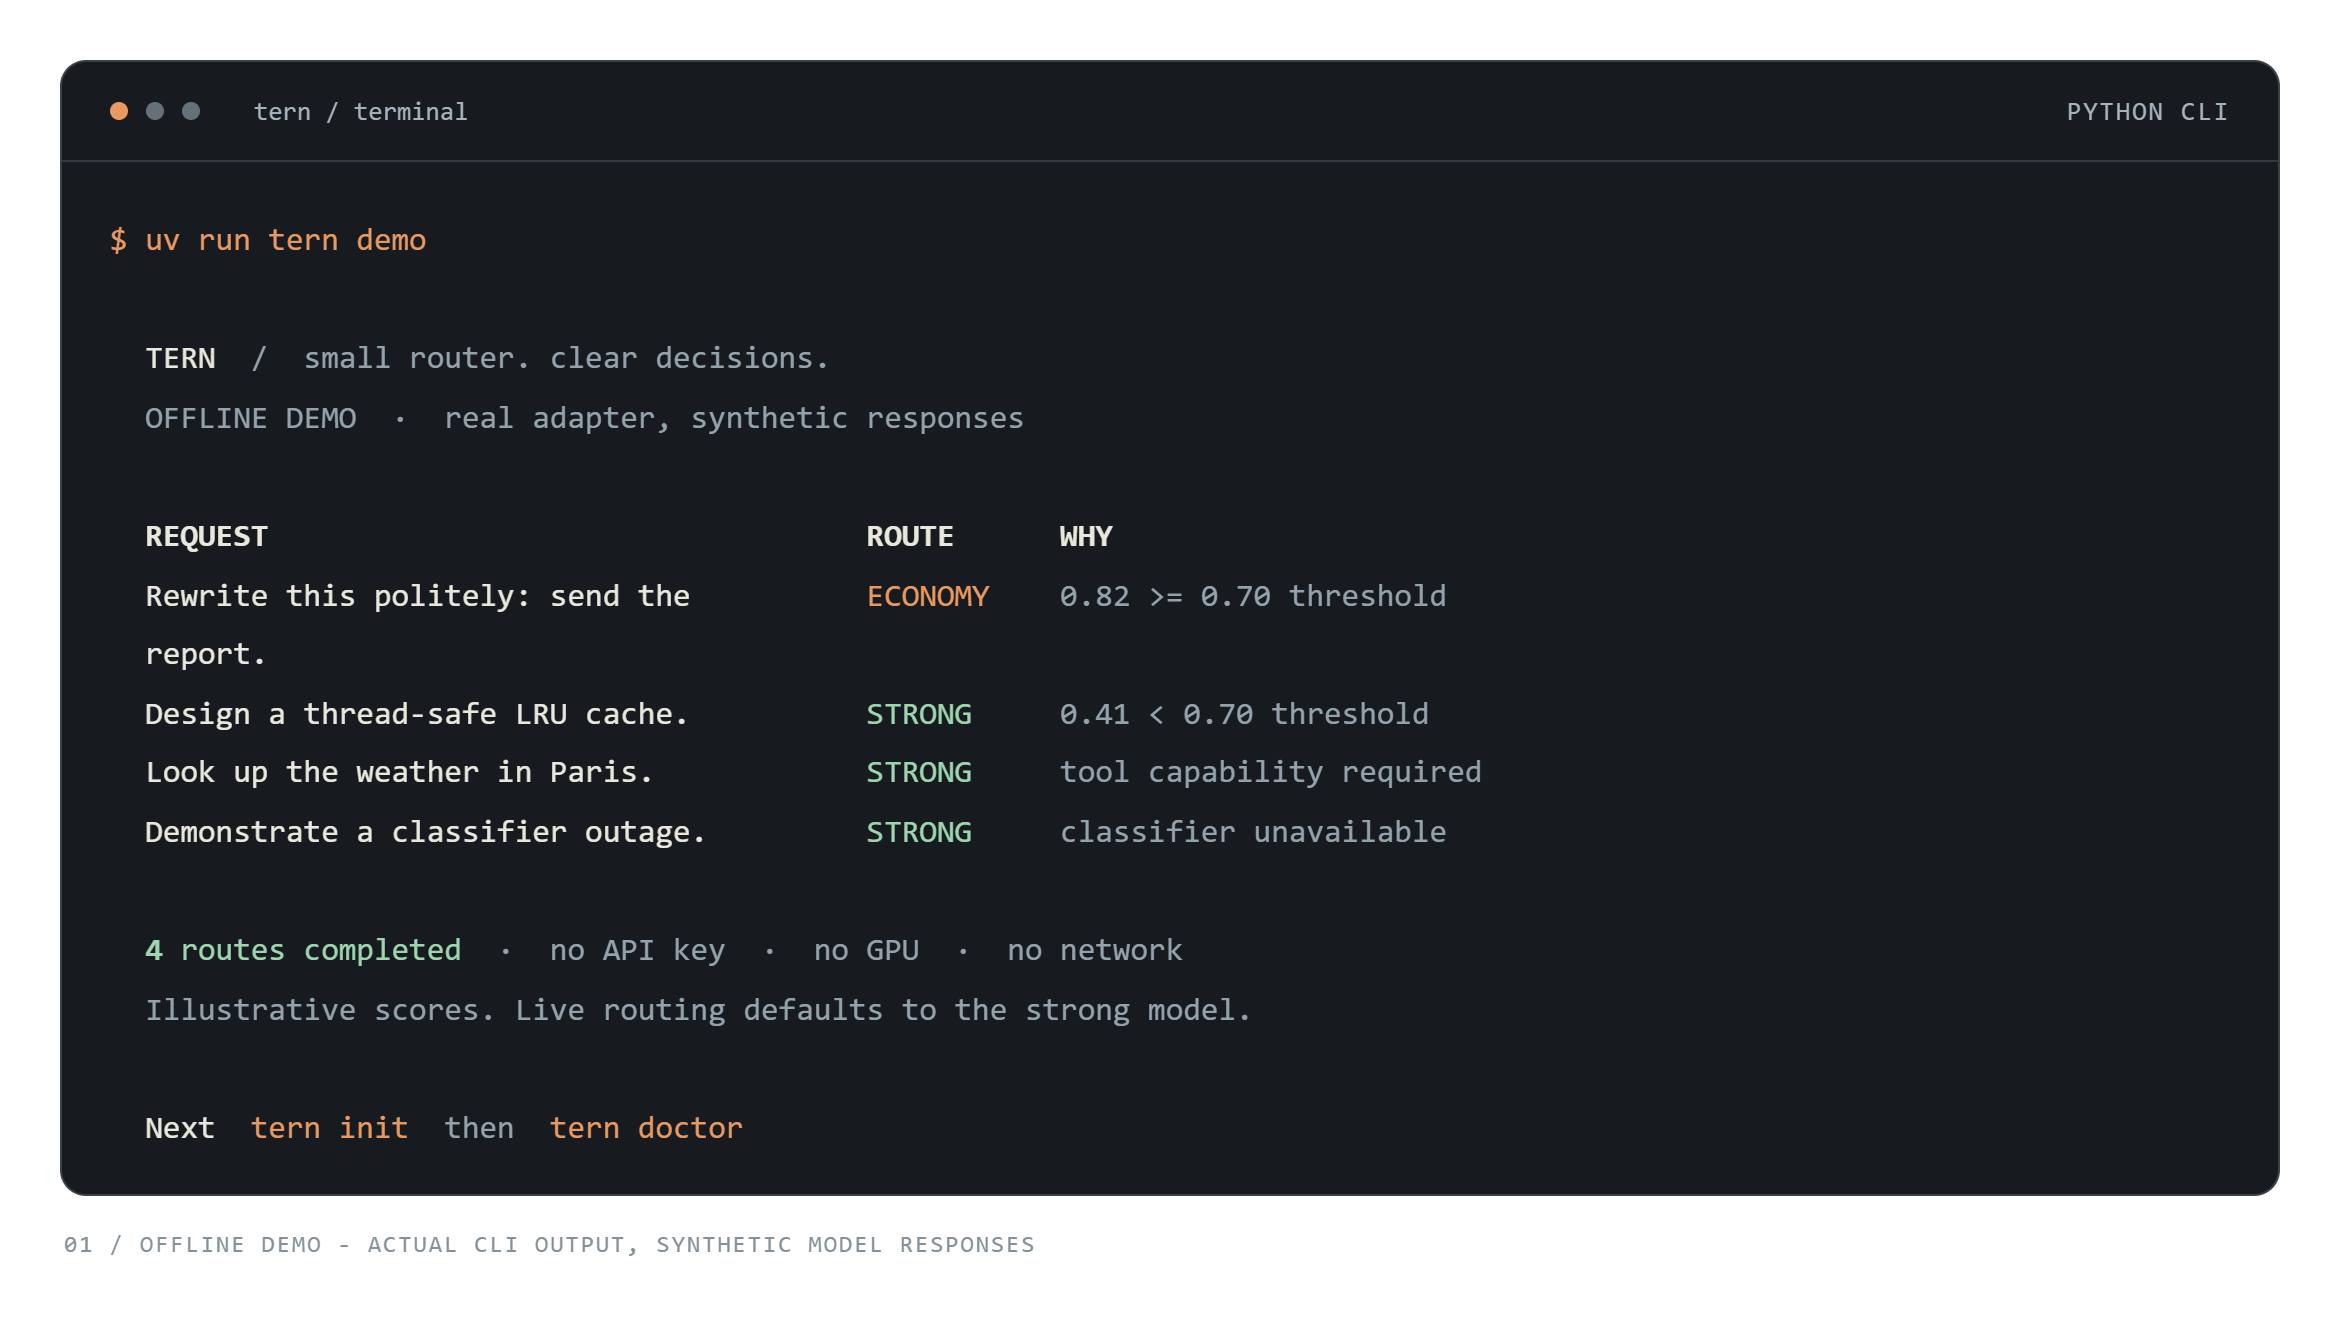
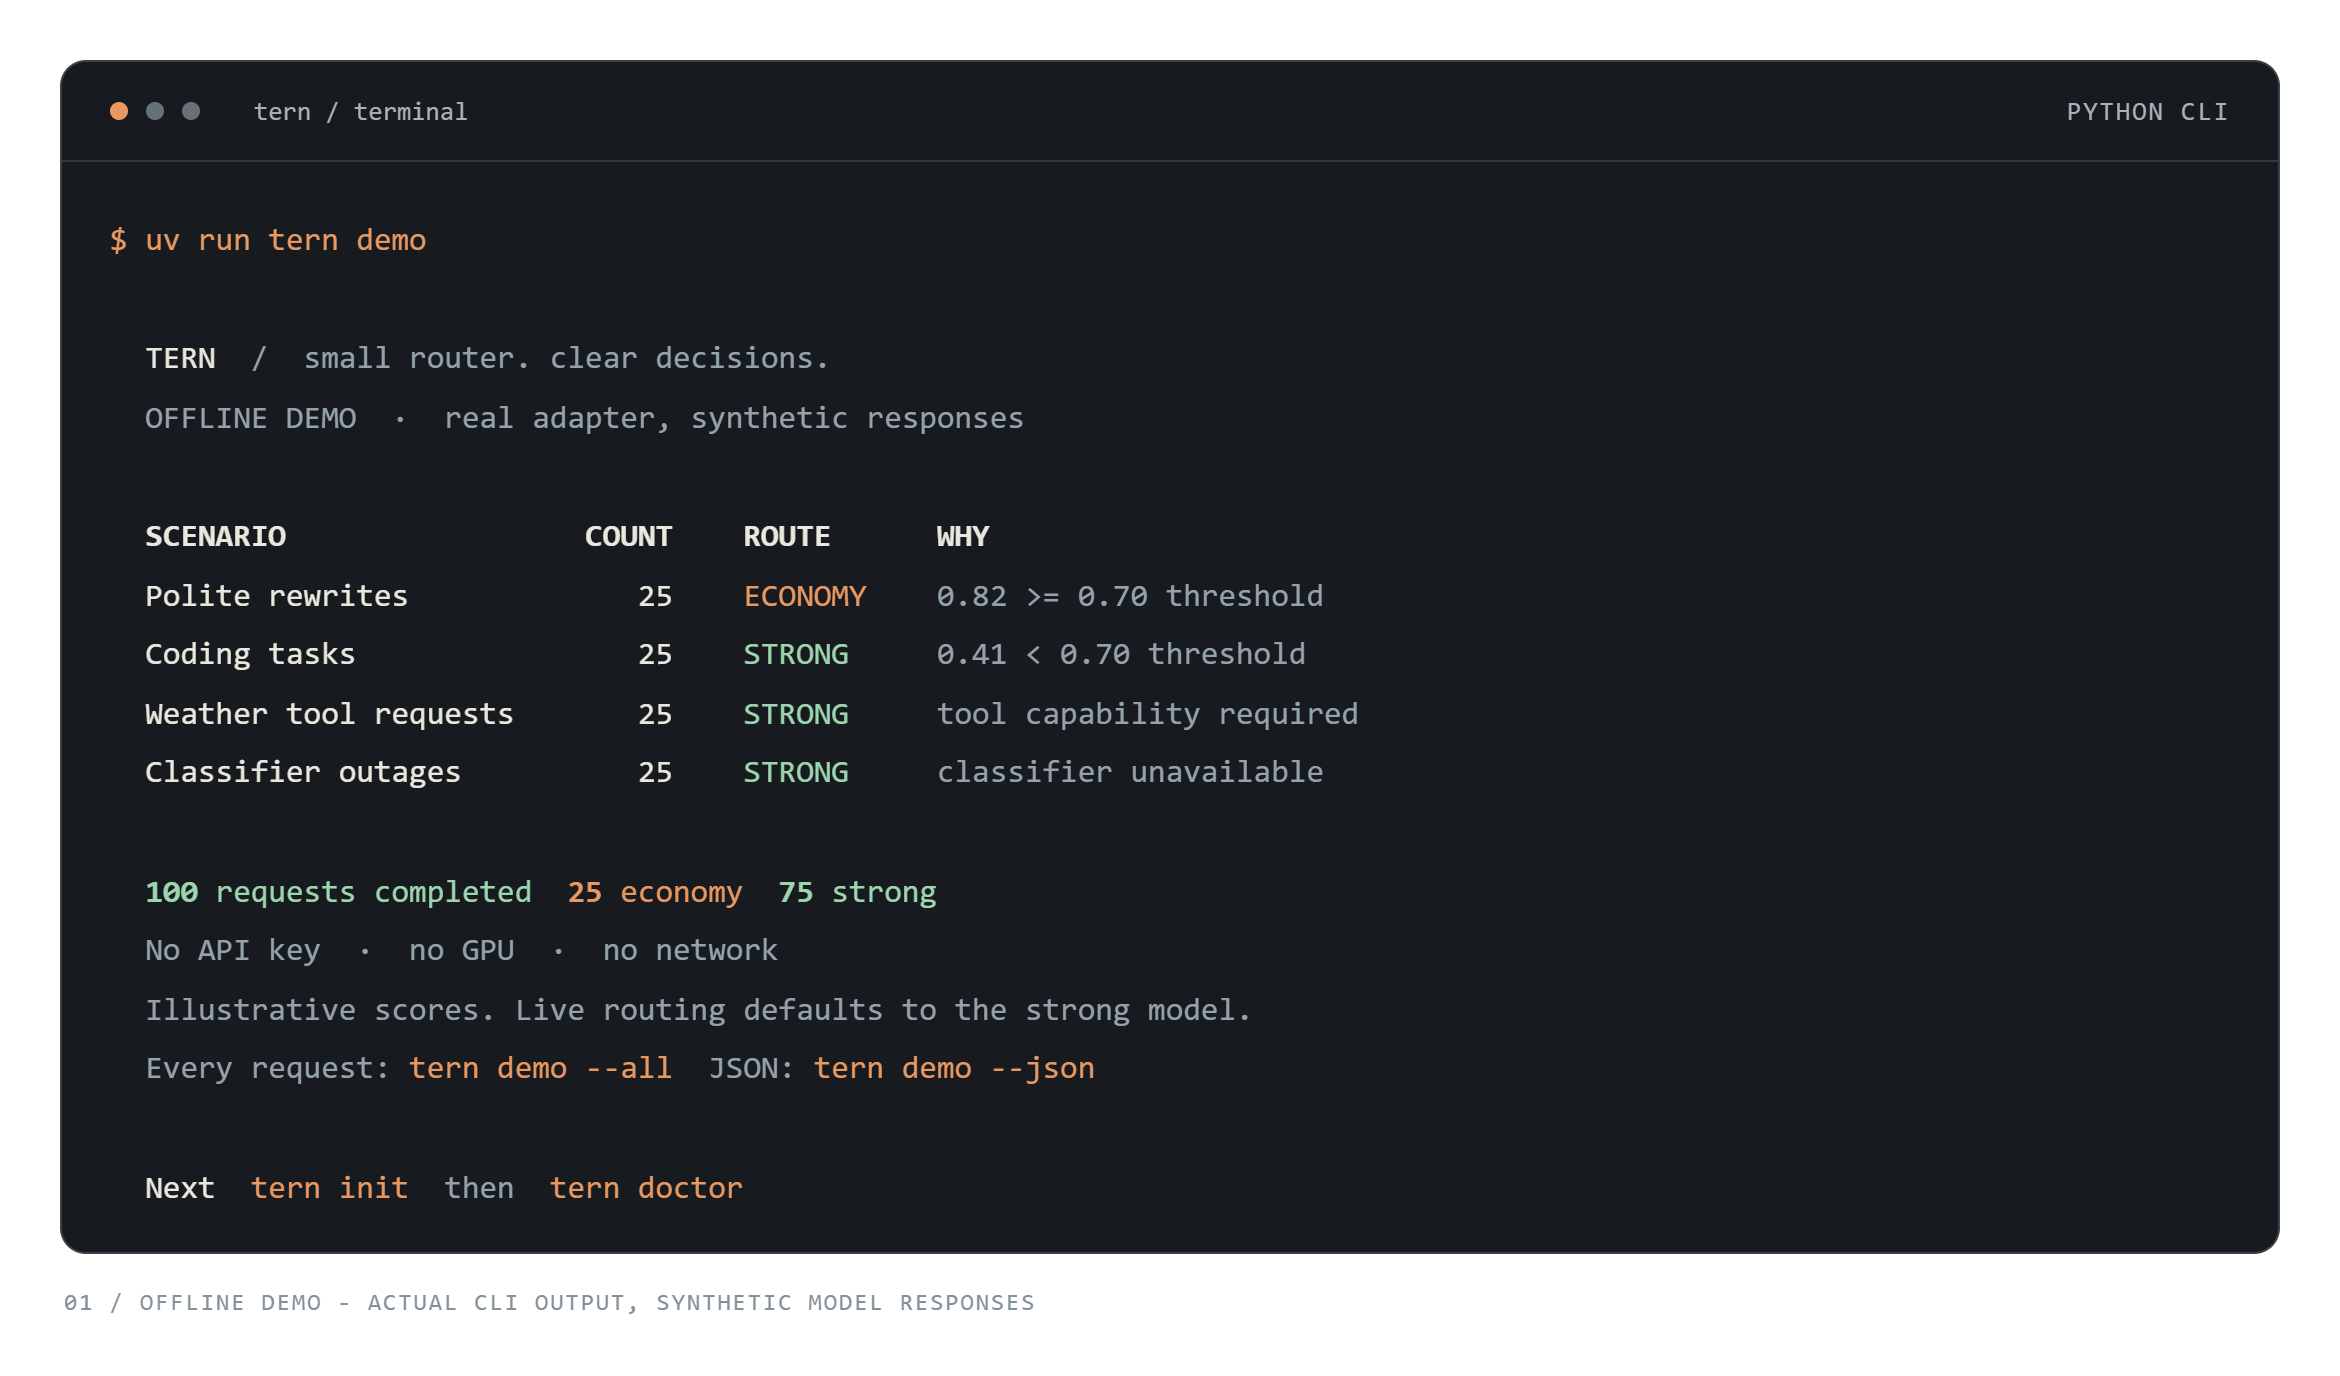
Document and capture the 100-request demo

diff --git a/docs/quickstart.md b/docs/quickstart.md
@@ -17,7 +17,15 @@ These commands work in PowerShell, bash and zsh. The repository is private, so y
 
 Upgrading from Model Router? Run `uv sync --extra cli` to install the new `tern` command. The `model-router` command remains an alias, and existing `model_router` Python imports continue to work.
 
-The demo exercises the actual adapter using in-process HTTP transports. Its four synthetic cases demonstrate economy selection, strong selection, tool bypass and classifier failure fallback. They are not live inferences or quality benchmarks.
+The demo sends **100 distinct synthetic requests** through the actual adapter using in-process HTTP transports: 25 polite rewrites, 25 coding tasks, 25 weather tool requests, and 25 classifier-outage cases. They demonstrate economy selection, strong selection, tool bypass and classifier failure fallback. The outages are interleaved with successful classifier calls so each demonstrates an isolated failure. These are not live inferences or quality benchmarks.
+
+```sh
+uv run tern demo          # Compact summary: 25 economy, 75 strong
+uv run tern demo --all    # Show all 100 requests and their routing reasons
+uv run tern demo --json   # Export summary and every request/response as JSON
+```
+
+All three modes execute the same 100 requests. Their scores and responses are synthetic; the counts describe this demo's fixtures, not expected routing proportions for real traffic.
 
 ## 2. Add local configuration
 

diff --git a/README.md b/README.md
@@ -38,7 +38,9 @@ uv sync --extra cli --python 3.12
 uv run tern demo
 ```
 
-**No API key. No GPU. No network calls in the demo.** Installation downloads Python packages; the demo itself runs locally through the real adapter with synthetic model responses.
+**100 requests. No API key. No GPU. No network calls in the demo.** Installation downloads Python packages; the demo itself runs locally through the real adapter with synthetic model responses. It covers 25 distinct prompts each for rewrites, coding, tool requests, and classifier outages.
+
+Use `uv run tern demo --all` to see every request, or `uv run tern demo --json` to export all results. The default view summarizes the 100 completed requests.
 
 ![Actual terminal output showing economy routing, strong routing, tool bypass and classifier failure fallback](docs/assets/terminal-demo.png)
 
